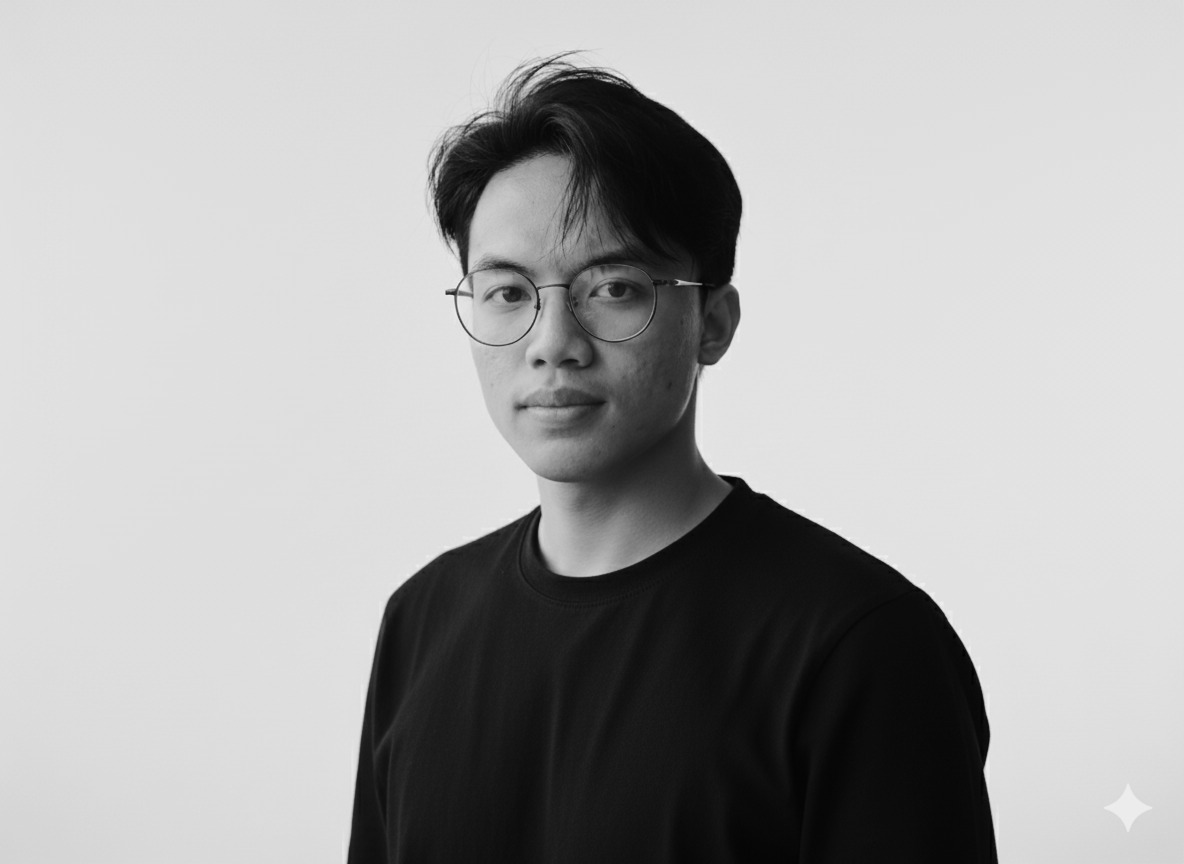
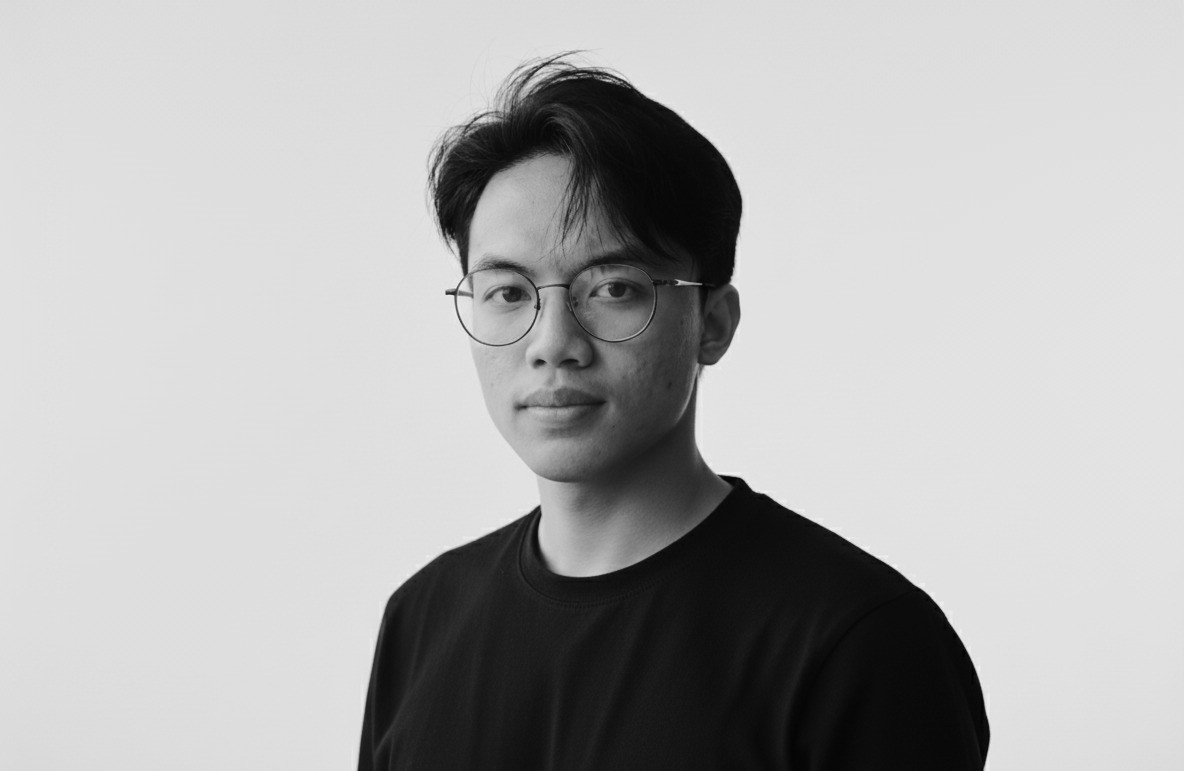
chore: img

Changed region(s): [[0.2812, 0.0623, 0.8438, 1.0]]

diff --git a/docs/index.html b/docs/index.html
@@ -174,7 +174,7 @@ ul.task-list li input[type="checkbox"] {
         <li class="sidebar-item">
   <div class="sidebar-item-container"> 
   <a href="./My_Professional_Reviews/index.html" class="sidebar-item-text sidebar-link">
- <span class="menu-text"><span class="chapter-number">10</span>&nbsp; <span class="chapter-title">UTS-5 My Personal Reviews</span></span></a>
+ <span class="menu-text"><span class="chapter-number">10</span>&nbsp; <span class="chapter-title">UAS-5 My Professional Reviews</span></span></a>
   </div>
 </li>
         <li class="sidebar-item">
